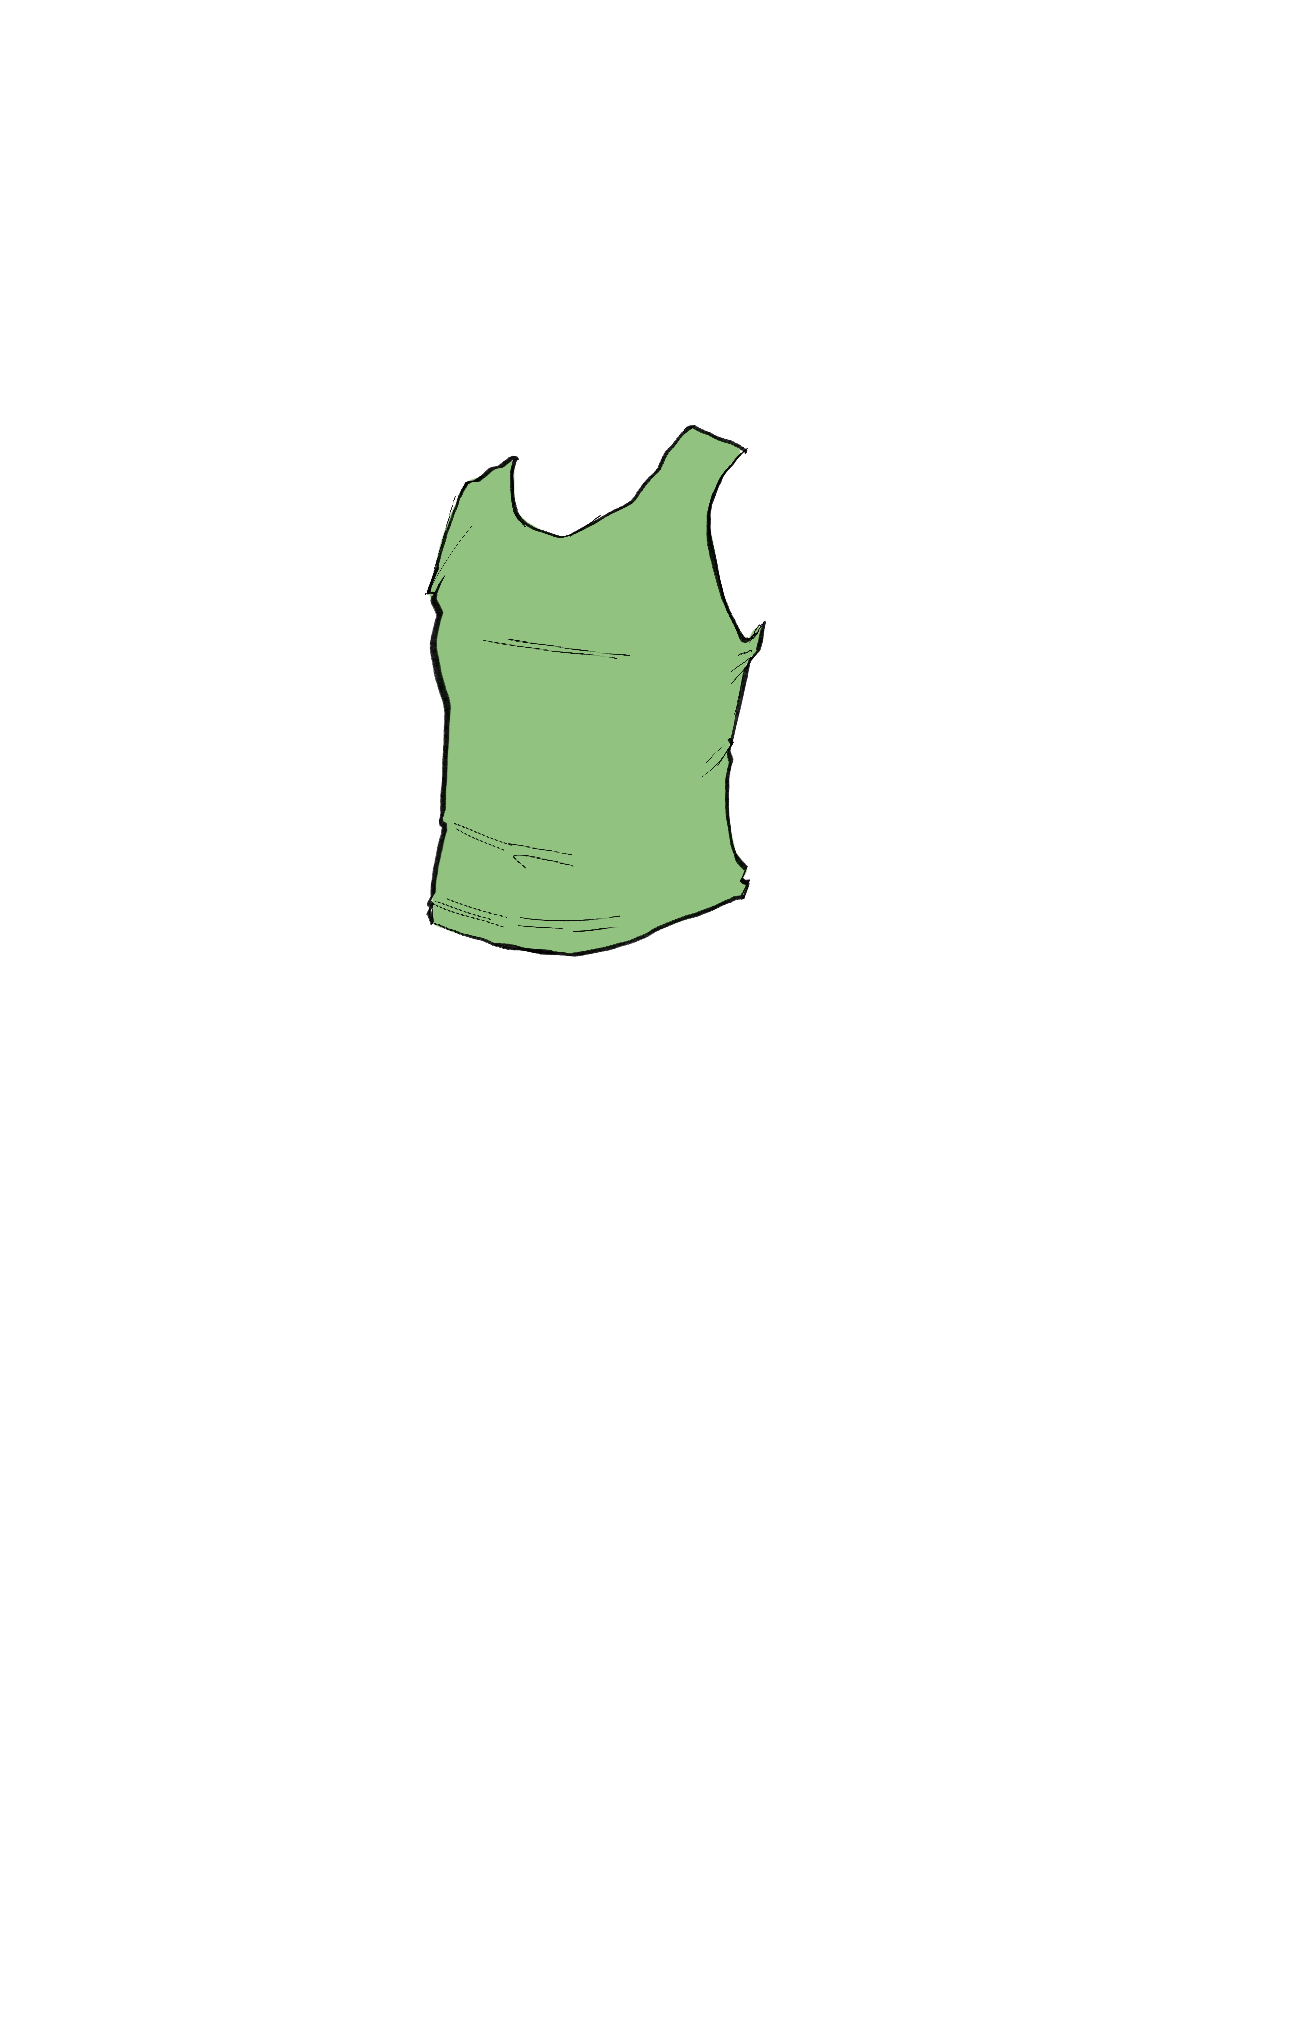
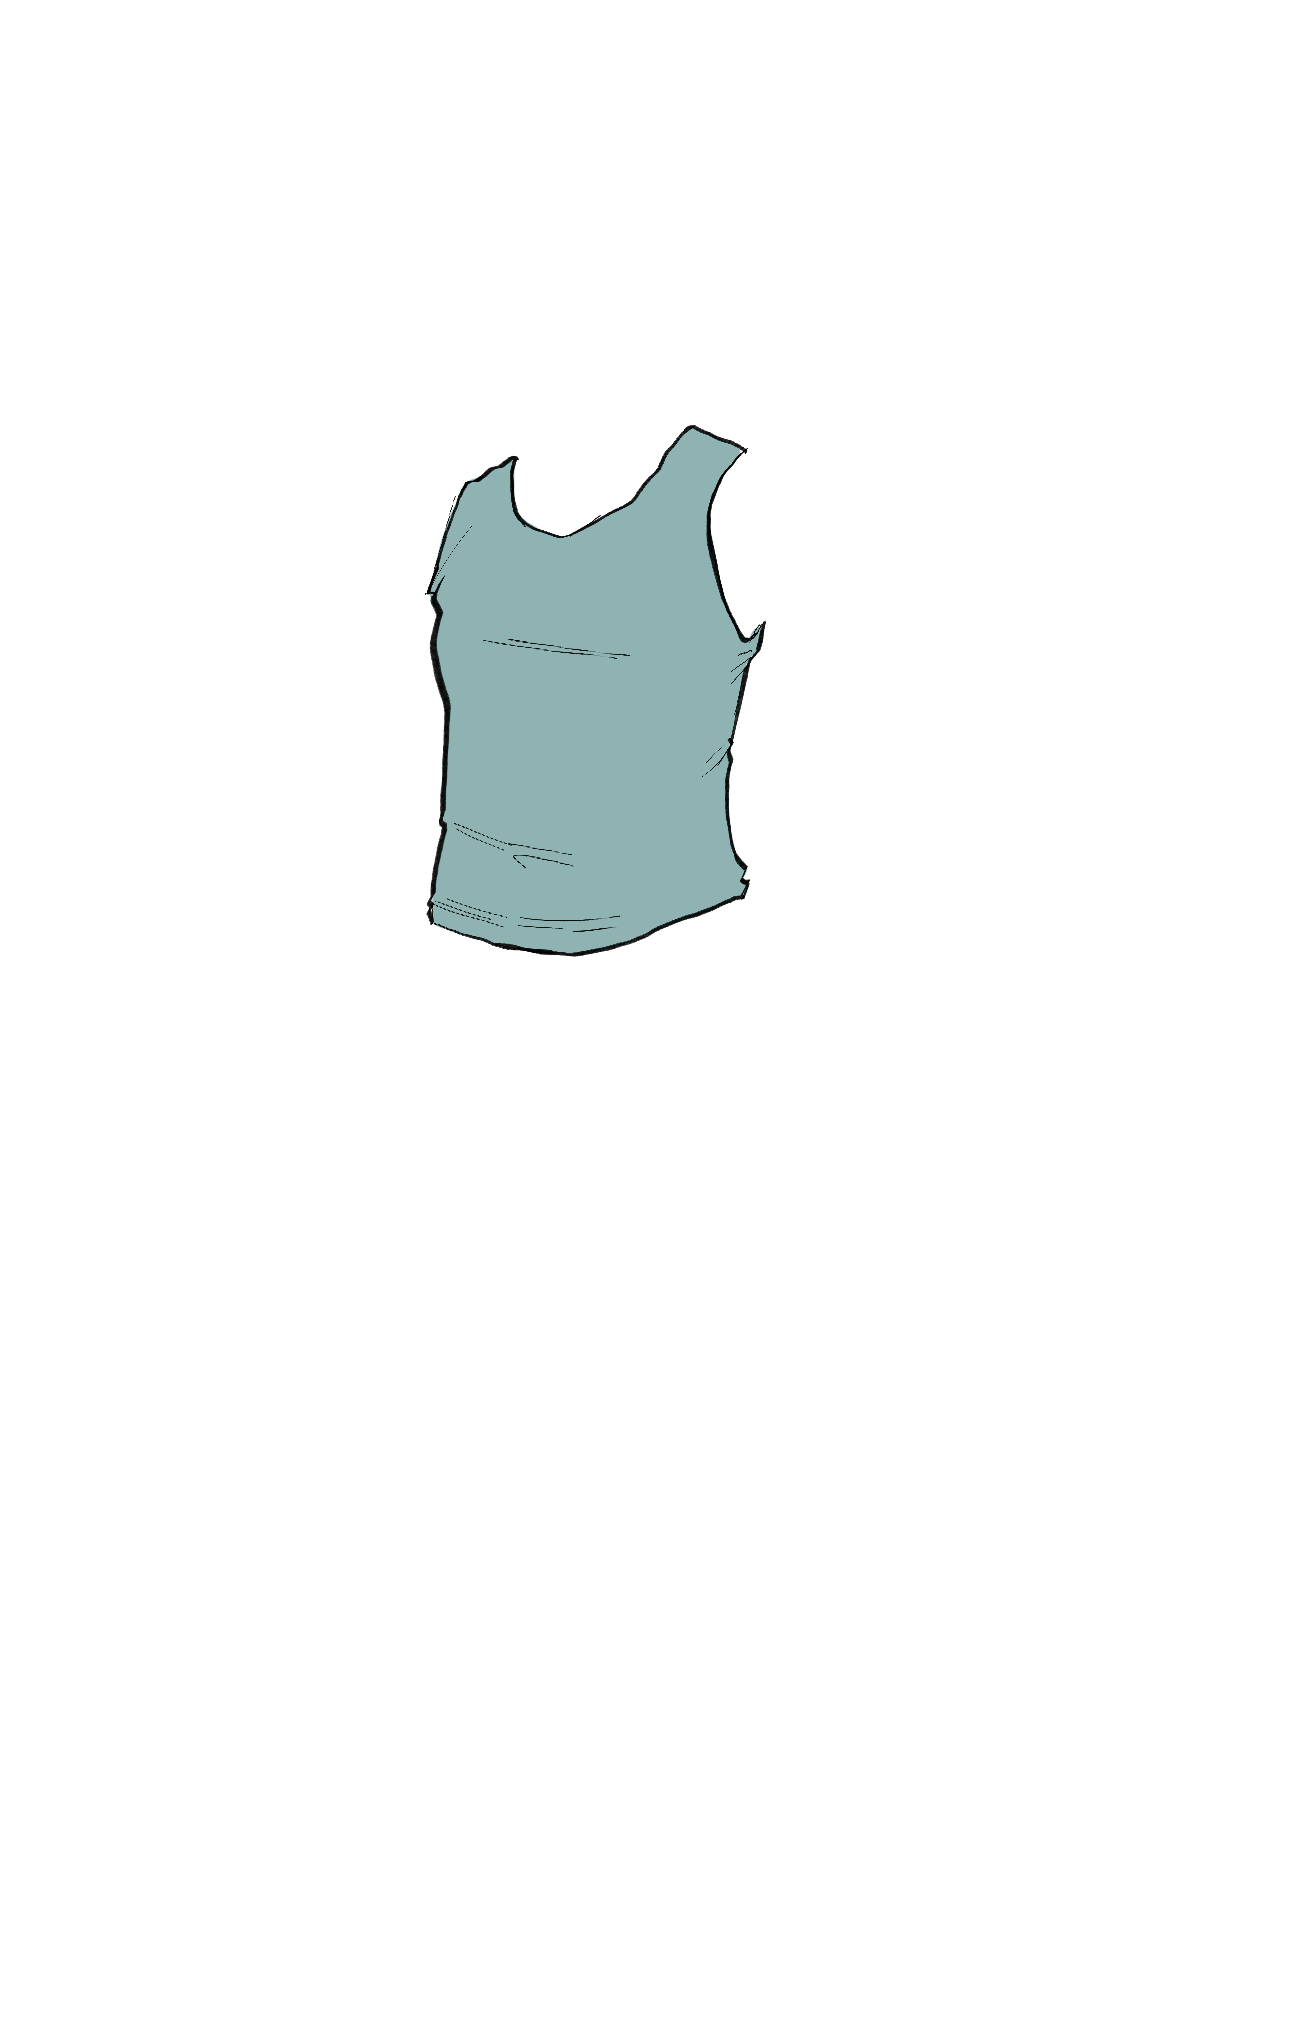
Added initial support for variants color

Changed region(s): [[0.3075, 0.1869, 0.5842, 0.4674]]

diff --git a/src/components/PartColorSelector.tsx b/src/components/PartColorSelector.tsx
@@ -1,0 +1,68 @@
+import React from "react";
+import { ConfigPart, ConfigColor } from "../interfaces/Config";
+import classes from "./PartColorSelector.module.scss";
+import configUtils from "../utils/configUtils";
+
+interface PartColorSelectorProps {
+  parts: ConfigPart[];
+  addPart: (newPart: ConfigPart) => void;
+  partType: number;
+  skinTone: number;
+  partsArray: ConfigPart[];
+}
+
+export const PartColorSelector = (props: PartColorSelectorProps) => {
+  return (
+    <div className={classes.PartColorSelector}>
+      {props.partsArray
+        .filter(part => part.partTypeId === props.partType)
+        .map(part => (
+          <div className={classes.PartColorSelectorPart}>
+            <div>{part.name}</div>
+            {props.parts
+              .filter(
+                other =>
+                  other.bodyShapeId === part.bodyShapeId &&
+                  other.partTypeId === part.partTypeId &&
+                  other.name === part.name
+              )
+              .map((other: ConfigPart, index: number) => {
+                const color = configUtils.color.getColor(
+                  other.colorId as number
+                ) as ConfigColor;
+                return Array.isArray(color.hex) ? (
+                  <div
+                    key={index}
+                    className={
+                      color.id === part.colorId
+                        ? classes.colorMultipleSelected
+                        : classes.colorMultiple
+                    }
+                    onClick={() => {
+                      props.addPart(other);
+                    }}
+                  >
+                    {color.hex.map(color => (
+                      <div style={{ backgroundColor: color }}></div>
+                    ))}
+                  </div>
+                ) : (
+                  <div
+                    key={index}
+                    className={
+                      color.id === part.colorId
+                        ? classes.colorSelected
+                        : classes.color
+                    }
+                    onClick={() => {
+                      props.addPart(other);
+                    }}
+                    style={{ backgroundColor: color.hex }}
+                  ></div>
+                );
+              })}
+          </div>
+        ))}
+    </div>
+  );
+};

diff --git a/src/containers/Selector.tsx b/src/containers/Selector.tsx
@@ -5,6 +5,7 @@ import { SkinTones } from "../components/SkinTones";
 import { PartTypes } from "../components/PartTypes";
 import { PartList } from "../components/PartList";
 import { ConfigPart } from "../interfaces/Config";
+import { PartColorSelector } from "../components/PartColorSelector";
 
 interface SelectorProps {
   addPart: (newPart: ConfigPart) => void;
@@ -30,14 +31,23 @@ const Selector = (props: SelectorProps) => {
         partType={partType}
       ></PartTypes>
       {partType !== undefined && (
-        <PartList
-          parts={config.parts}
-          partType={partType}
-          addPart={props.addPart}
-          removePart={props.removePart}
-          skinTone={props.skinTone}
-          partsArray={props.partsArray}
-        ></PartList>
+        <React.Fragment>
+          <PartList
+            parts={config.parts}
+            partType={partType}
+            addPart={props.addPart}
+            removePart={props.removePart}
+            skinTone={props.skinTone}
+            partsArray={props.partsArray}
+          ></PartList>
+          <PartColorSelector
+            parts={config.parts}
+            partType={partType}
+            addPart={props.addPart}
+            skinTone={props.skinTone}
+            partsArray={props.partsArray}
+          ></PartColorSelector>
+        </React.Fragment>
       )}
     </div>
   );

diff --git a/src/components/PartTypes.tsx b/src/components/PartTypes.tsx
@@ -17,7 +17,7 @@ export const PartTypes = (props: PartTypesProps) => {
       <div>Part Types:</div>
       <div className={classes.partTypes}>
         {props.partTypes.map((partType, index) => (
-          <div
+          /*  <div
             key={index}
             className={
               partType.id === props.partType
@@ -27,14 +27,21 @@ export const PartTypes = (props: PartTypesProps) => {
             onClick={() => {
               props.setPartType(partType.id);
             }}
-          >
-            <img
-              src={urlPrefix + "/" + partType.iconFilename + ".png"}
-              alt={partType.iconFilename}
-              className={classes.partTypeIcon}
-            />
-            {/* {partType.name} */}
-          </div>
+          > */
+          <img
+            key={index}
+            src={urlPrefix + "/" + partType.iconFilename + ".png"}
+            alt={partType.iconFilename}
+            className={
+              partType.id === props.partType
+                ? classes.partTypeSelected
+                : classes.partType
+            }
+            onClick={() => {
+              props.setPartType(partType.id);
+            }}
+          />
+          /* </div> */
         ))}
       </div>
     </div>

diff --git a/src/utils/configUtils.ts b/src/utils/configUtils.ts
@@ -1,6 +1,10 @@
 import ConfigUtils from "../interfaces/ConfigUtils";
 import config from "../config";
-import Config, { ConfigPart, ConfigPartType } from "../interfaces/Config";
+import Config, {
+  ConfigPart,
+  ConfigPartType,
+  ConfigColor
+} from "../interfaces/Config";
 
 const configUtils: ConfigUtils = {
   filter: {
@@ -20,6 +24,10 @@ const configUtils: ConfigUtils = {
       accumulator.some(part => part.name === currentValue.name)
         ? [...accumulator]
         : [...accumulator, currentValue]
+  },
+  color: {
+    getColor: (colorId: number) =>
+      config.colors.find(color => color.id === colorId)
   },
   partType: {
     usesSkinTone: (partTypeId: number) =>

diff --git a/src/components/PartColorSelector.module.scss b/src/components/PartColorSelector.module.scss
@@ -1,28 +1,32 @@
-.skinTones {
+.PartColorSelector {
+  margin-top: 40px;
+}
+
+.PartColorSelectorPart {
   display: flex;
 }
 
-.skinTone {
+.color {
   cursor: pointer;
   width: 50px;
   height: 50px;
   margin: 3px;
 }
 
-.skinToneSelected {
-  @extend .skinToneMultiple;
+.colorSelected {
+  @extend .colorMultiple;
   border: 3px solid red;
 }
 
-.skinToneMultiple {
-  @extend .skinTone;
+.colorMultiple {
+  @extend .color;
 
   cursor: pointer;
   display: grid;
   grid-auto-flow: column;
 }
 
-.skinToneMultipleSelected {
-  @extend .skinToneMultiple;
+.colorMultipleSelected {
+  @extend .colorMultiple;
   border: 3px solid red;
 }

diff --git a/src/interfaces/ConfigUtils.ts b/src/interfaces/ConfigUtils.ts
@@ -1,4 +1,4 @@
-import Config, { ConfigPart } from "./Config";
+import Config, { ConfigPart, ConfigColor } from "./Config";
 
 export default interface ConfigUtils {
   filter: {
@@ -11,6 +11,9 @@ export default interface ConfigUtils {
       accumulator: ConfigPart[],
       currentValue: ConfigPart
     ) => ConfigPart[];
+  };
+  color: {
+    getColor: (colorId: number) => ConfigColor | undefined;
   };
   partType: {
     usesSkinTone: (partTypeId: number) => boolean;

diff --git a/src/components/PartTypes.module.scss b/src/components/PartTypes.module.scss
@@ -1,16 +1,11 @@
 .partTypes {
   display: grid;
-  grid-template-columns: repeat(4, 1fr);
+  grid-template-columns: repeat(7, 1fr);
+  justify-items: center;
 }
 
 .partType {
-  border: 1px solid black;
-  padding: 5px;
-  margin: 5px;
   cursor: pointer;
-}
-
-.partTypeIcon {
 }
 
 .partTypeSelected {

diff --git a/src/components/PartList.tsx b/src/components/PartList.tsx
@@ -41,7 +41,7 @@ export const PartList = (props: PartListProps) => {
                 }
               }}
             >
-              {part.name}
+              {index + 1}
             </div>
           ))}
       </div>

diff --git a/src/config.ts b/src/config.ts
@@ -55,7 +55,7 @@ const config: Config = {
     {
       id: 9,
       name: "Clothing Pink",
-      hex: "#DEEB6E0"
+      hex: "#E6B4E3"
     },
     {
       id: 10,

diff --git a/src/components/PartList.module.scss b/src/components/PartList.module.scss
@@ -1,6 +1,6 @@
 .partList {
   display: grid;
-  grid-template-columns: repeat(4, 1fr);
+  grid-template-columns: repeat(7, 1fr);
 }
 
 .partItem {
